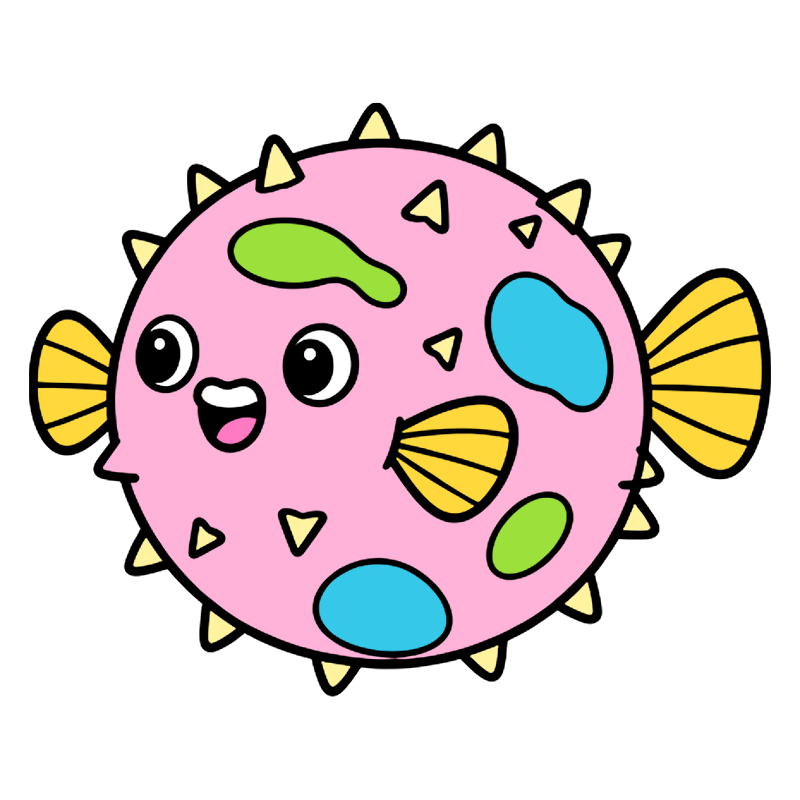
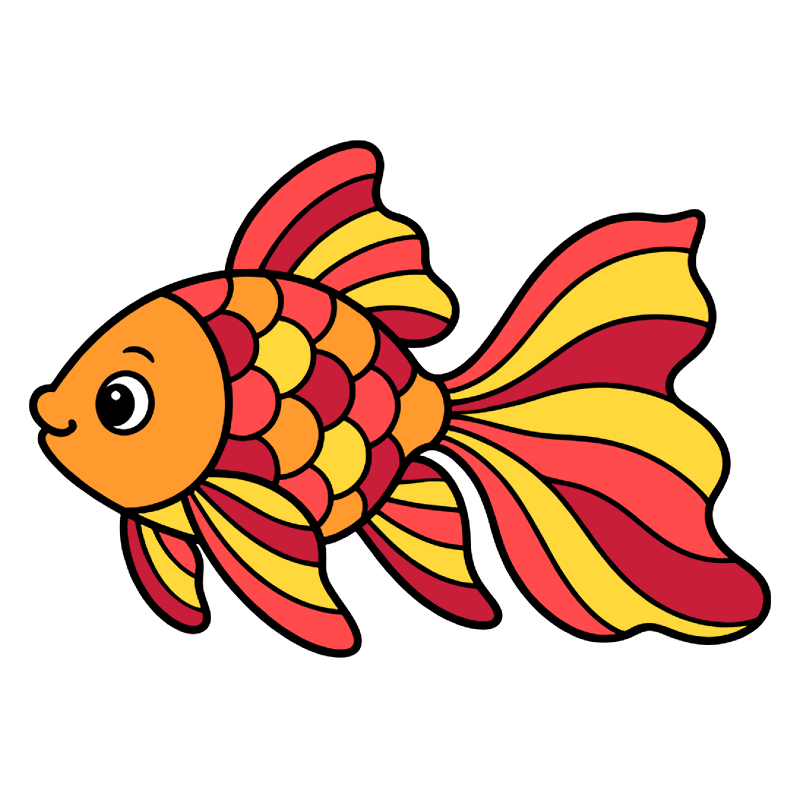
Gomme dans l'espace couleurs ; poisson rouge sur la carte Poissons
Claude-Session: https://claude.ai/code/session_0148kRd2hnQKEXspVYq24FXM

diff --git a/index.html b/index.html
@@ -132,7 +132,7 @@ button:focus-visible{outline:4px solid var(--ring);outline-offset:3px}
 .colors{display:grid;grid-template-columns:repeat(7,1fr);gap:7px;justify-items:center;align-content:center}
 .stickers{grid-template-columns:repeat(8,1fr);gap:5px}
 .panels{flex:1}
-.tools.side{flex:0 0 auto;flex-direction:column;justify-content:center;gap:10px}
+.tools.side{flex:0 0 auto;flex-direction:column;justify-content:center;gap:8px}
 .sticker-tile,.back-tile{background:var(--paper);box-shadow:0 2px 0 var(--tray-edge),inset 0 0 0 3px var(--ring);display:grid;place-items:center}
 .sticker-tile img{width:66%;height:66%;object-fit:contain;pointer-events:none}
 .st img{width:78%;height:78%;object-fit:contain;pointer-events:none}
@@ -160,7 +160,7 @@ button:focus-visible{outline:4px solid var(--ring);outline-offset:3px}
 .motiftool .dots span:nth-child(3){background:#2fbf5b}.motiftool .dots span:nth-child(4){background:#2f7bff}
 .tool:disabled{opacity:.35}
 .tool svg{width:30px;height:30px;stroke:var(--ink);stroke-width:2.6;fill:none;stroke-linecap:round;stroke-linejoin:round}
-.tool[aria-pressed="true"]{outline:4px solid var(--ring);outline-offset:2px}
+.tool[aria-pressed="true"]{box-shadow:0 0 0 3px var(--fg)}
 .tool.ask{background:var(--ring)}
 .tool.ask svg{stroke:#fff}
 @media (max-width:380px){.colors{gap:6px}}
@@ -271,10 +271,11 @@ button:focus-visible{outline:4px solid var(--ring);outline-offset:3px}
       <button class="tool" id="undo" aria-label="Annuler">
         <svg viewBox="0 0 32 32"><path d="M11 9 5 15l6 6"/><path d="M5 15h14a7 7 0 0 1 0 14h-5"/></svg>
       </button>
-      <button class="tool motiftool" id="motifbtn" aria-label="motifs"></button>
-      <button class="tool" id="eraser" aria-label="Gomme" aria-pressed="false" hidden>
+      <button class="tool" id="eraser" aria-label="Gomme" aria-pressed="false">
         <svg viewBox="0 0 32 32"><path d="M18 5 27 14 15 26H9l-4-4z"/><path d="M12 11l9 9"/><path d="M15 26h12"/></svg>
       </button>
+      <button class="tool motiftool" id="motifbtn" aria-label="motifs"></button>
+      
       <button class="tool" id="reset" aria-label="Tout effacer" hidden>
         <svg viewBox="0 0 32 32"><path d="M6 9h20"/><path d="M12 9V6h8v3"/><path d="M8 9l2 18h12l2-18"/></svg>
       </button>
